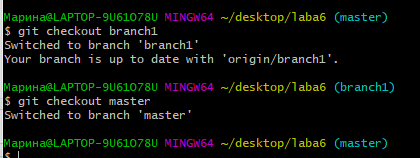
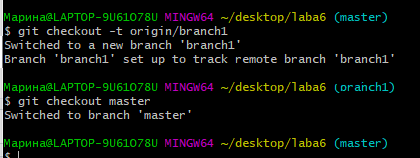
screens

Changed region(s): [[0.0, 0.2278, 0.9595, 0.4304], [0.2476, 0.1519, 0.5571, 0.2278], [0.8048, 0.5063, 0.8357, 0.557]]

diff --git a/README.md b/README.md
@@ -1,2 +1,104 @@
-# LR6
-Лабораторная работа №6
+#Отчет о лабораторной работе №6
+#Яснева Марина гр.4916
+
+###Ход работы:
+На GitHub'е сделала копию https://github.com/Kurtyanik/LR6/
+
+С помощью команды cd Desktop/laba6 в консоли Git Bash переша в созданную на рабочем столе папку laba6
+
+Использовала команду git init чтобы инициализировать гит в данной папке
+
+![Git init](screens/Screenshot2.png)
+
+Командой git remote add origin связала папку с удалённым репозиторием на сайте GitHub
+
+![Git remote add origin](screens/Screenshot2.png)
+
+Затем через графический интерфейс GitHub добавила новый файл file.txt в удалённый репозиторий и добавила его в ветку master
+
+![Новый файл](screens/Screenshot3.png)
+
+![Новый файл](screens/Screenshot4.png)
+
+![Новый файл](screens/Screenshot5.png)
+
+Пользуясь командой git pull origin master загрузила изменения из удалённого репозитория в локальный
+
+![Git pull](screens/Screenshot6.png)
+
+Командой git log получила список операций/коммитов
+
+![git log](screens/Screenshot7.png)
+
+Используя git show получила более подробную информацию по последнему изменению
+
+![git show](screenshots/Screenshot8.png)
+
+Командой _git checkout -t branch1_ переключилась на другую ветку branch
+
+![git checkout](screens/Screenshot9.png)
+
+Попыталась выполнить слияние веток master и branch1 командой git merge branch1 и получила ошибку
+
+![Merge error](screens/Screenshot10.png)
+
+Вручную изменила файл mergefile.txt, вызвавший ошибку слияния, и выполнила коммит
+
+![Fix](screens/Screenshot11.png)
+
+Выполнила слияние веток master и branch1 а затем удалила ветку branch1 
+
+![Merge](screens/Screenshot12.png)
+
+![Branch delete](screens/Screenshot13.png)
+
+Запушила всё в удалённый репозиторий командой git push origin master 
+
+![Push1](screens/Screenshot14.png)
+
+Затем сделала несколько изменений, создала новые файлы
+
+![New files](screens/Screenshot15.png)
+
+![New files git](screens/Screenshot16.png)
+
+Командой git reset --hard HEAD~1 выполнила откат последнего коммита 
+
+![Hard reset](screens/Screenshot17.png)
+
+Запушила изменённую ветку
+
+![Push2](screens/Screenshot18.png)
+
+![Push2 result](screens/Screenshot19.png)
+
+Пользуясь командой git checkout -b report создала новую ветку report
+
+![New branch](screens/Screenshot20.png)
+
+Текущая история git log --graph. Аргумент --graph позволяет графически изобразить ветки и коммиты на них
+
+![Git log2](screens/Screenshot21.png)
+
+С помощью команды git add . подготовила все новые файлы в папке laba6 к пушу
+
+![Git add .](screens/Screenshot23.png)
+
+Запушила файлы скриншотов в удалённый репозиторий
+
+![Git add .](screens/Screenshot25.png)
+
+Оформление отчёта в файле README.md, используя блокнот
+
+![Readme](screens/Screenshot27.png)
+
+
+Лог команд из папки .git/logs
+
+![Logs](screens/Screenshot26.png)
+
+Финальный результат команды git log
+
+![Git log3](screens/Screenshot28.png)
+
+Все файлы скриншотов лежат в папке screens
